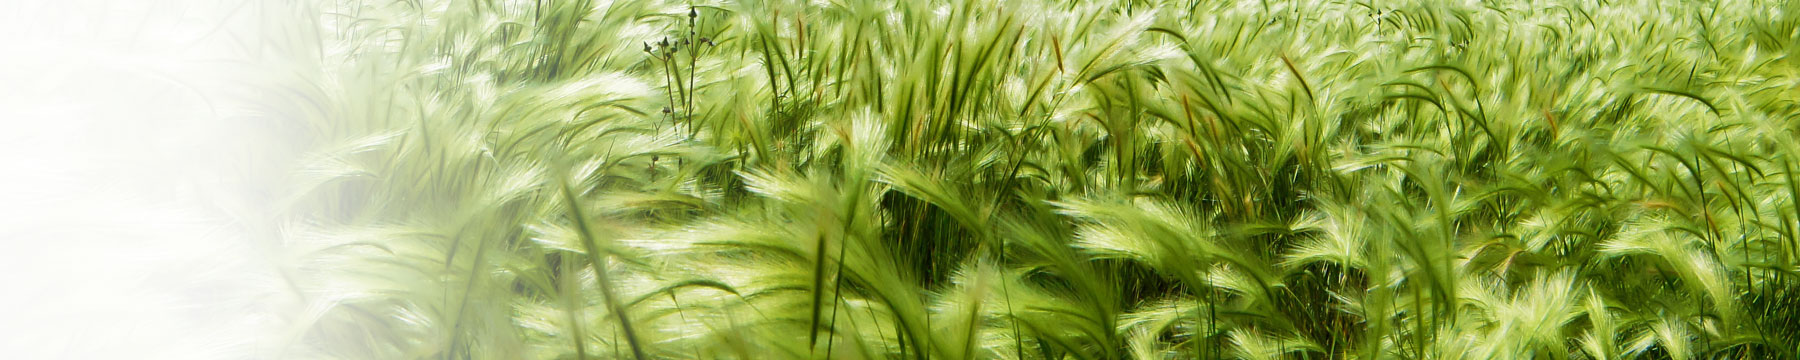
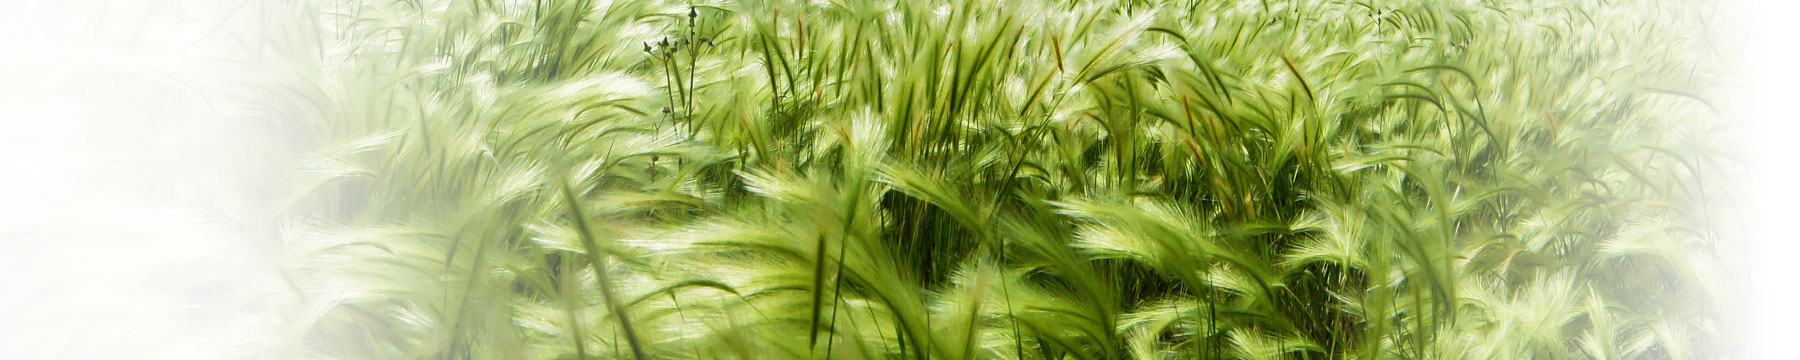
bilder für slider, aufteilung wp dateien, css style fixes

Changed region(s): [[0.7467, 0.0, 1.0, 1.0]]

diff --git a/style.css b/style.css
@@ -30,12 +30,19 @@ h2 a:hover{
 
 body {
 	color: black;
-	font-size: 19px;
+	font-size: 21px;
 	font-family: 'Open Sans', sans-serif;
 	background-color:#F28E00;
 	background-image: url('bg-muster.png');
 	background-size: 15%;
 }
+
+strong {
+	font-size: 21px;
+	font-weight: normal;
+	color: #7da220;
+}
+
 .navbar-default  {
 	background: -moz-linear-gradient(top, rgba(241,241,241,0) 0%, rgba(219,219,219,0.65) 100%); /* FF3.6-15 */
 	background: -webkit-linear-gradient(top, rgba(241,241,241,0) 0%,rgba(219,219,219,0.65) 100%); /* Chrome10-25,Safari5.1-6 */
@@ -64,7 +71,10 @@ nav li {
 
 
 
-
+.site-info{
+	color: white;
+	text-align: center;
+}
 
 
 #bgheader {
@@ -75,10 +85,10 @@ nav li {
 }
 
 .wpcntent {
-	-webkit-box-shadow: 0px 0px 75px -10px rgba(0,0,0,0.75);
-	-moz-box-shadow: 0px 0px 75px -10px rgba(0,0,0,0.75);
-	box-shadow: 0px 0px 75px -10px rgba(0,0,0,0.75);
-
+	-webkit-box-shadow: 1px 2px 43px 0px rgba(255,255,255,1);
+	-moz-box-shadow: 1px 2px 43px 0px rgba(255,255,255,1);
+	box-shadow: 1px 2px 43px 0px rgba(255,255,255,1);
+	
 	border-radius: 24px 24px 24px 24px;
 -moz-border-radius: 24px 24px 24px 24px;
 -webkit-border-radius: 24px 24px 24px 24px;

diff --git a/header.php b/header.php
@@ -1,96 +1,112 @@
-<?php
-/**
- * The template for displaying the header
- *
- * Displays all of the head element and everything up until the "site-content" div.
- *
- * @package WordPress
- * @subpackage Twenty_Fifteen
- * @since Twenty Fifteen 1.0
- */
-?><!DOCTYPE html>
+<?php  ?>
+<!DOCTYPE html>
 <html <?php language_attributes(); ?> class="no-js">
 <head>
-	<meta charset="<?php bloginfo( 'charset' ); ?>">
-	<meta name="viewport" content="width=device-width">
-	<link rel="profile" href="http://gmpg.org/xfn/11">
-	<link rel="pingback" href="<?php bloginfo( 'pingback_url' ); ?>">
-		<?php wp_head(); ?>
-	<link rel="stylesheet" href="<?php echo get_template_directory_uri(); ?>
-/style.css">
-<link href='https://fonts.googleapis.com/css?family=Open+Sans:400,700' rel='stylesheet' type='text/css'>
+
+  <!-- Latest compiled and minified JavaScript -->
+  <meta charset="<?php bloginfo( 'charset' ); ?>">
+  <meta name="viewport" content="width=device-width">
+  <link rel="profile" href="http://gmpg.org/xfn/11">
+  <link rel="pingback" href="<?php bloginfo( 'pingback_url' ); ?>">
+
+
+
+  <link href='https://fonts.googleapis.com/css?family=Open+Sans:400,700' rel='stylesheet' type='text/css'>
+  <?php wp_head(); ?>
+  <link rel="stylesheet" href="<?php echo get_template_directory_uri(); ?>
+  /style.css">
+  <link rel="stylesheet" href="<?php echo get_template_directory_uri(); ?>
+  /wp_generated_classes.css">
+
+
 </head>
+<script src="https://maxcdn.bootstrapcdn.com/bootstrap/3.3.6/js/bootstrap.min.js" integrity="sha384-0mSbJDEHialfmuBBQP6A4Qrprq5OVfW37PRR3j5ELqxss1yVqOtnepnHVP9aJ7xS" crossorigin="anonymous"></script>
+
 
 <body <?php body_class(); ?>>
-<div id="page" class="hfeed site container-fluid">
+  <div id="page" class="hfeed site container-fluid">
 
-	<div class="col-xs-12" style="padding-left:0px; padding-right:0px;padding-top: 85px;">
-		<div class="col-xs-1 col-lg-2">
-		</div>
+    <div class="col-xs-12" style="padding-left:0px; padding-right:0px;padding-top: 35px;">
+      <div class="col-xs-1 col-lg-2">
+      </div>
 
-		<div class="wpcntent col-xs-10 col-lg-8">
+      <div class="wpcntent col-xs-10 col-lg-8">
 
-			<div class="col-xs-12" style="padding-left:0px; padding-right:0px;padding-top:40px;">
-				<div class="col-xs-2">
-					<a href="http://meyer.webfuchs-entwicklung.de/"><img src="<?php echo get_template_directory_uri(); ?>/fitdurchessen.png" style="height: 20vh;"></a>
-				</div>
-				<div class="col-xs-10 hidden-xs hidden-sm " id="bgheader">
-				</div>
-			</div>
-
-      <!-- Header -->
-			<div class="col-xs-12" >
-				<nav role="navigation" class="navbar navbar-default">
-        <!-- Brand and toggle get grouped for better mobile display -->
-
-        <!-- Collection of nav links and other content for toggling -->
-        <div id="navbarCollapse" class="collapse navbar-collapse">
-            <ul class="nav navbar-nav">
-								<?php
-
-									$defaults = array(
-										'theme_location'  => '',
-										'menu'            => '',
-										'container'       => 'null',
-										'container_class' => 'null',
-										'container_id'    => 'null',
-										'menu_class'      => 'null',
-										'menu_id'         => 'null',
-										'echo'            => true,
-										'fallback_cb'     => 'wp_page_menu',
-										'before'          => '',
-										'after'           => '',
-										'link_before'     => '',
-										'link_after'      => '',
-										'items_wrap'      => '',
-										'depth'           => 0,
-										'walker'          => ''
-									);
-
-									wp_nav_menu( $defaults );
-								?>
-
-            </ul>
+        <div class="col-xs-12" style="padding-left:0px; padding-right:18px;padding-top:0px;">
+          <div id="logologo" class="col-xs-12 col-md-2 col-lg-2">
+            <a href="http://meyer.webfuchs-entwicklung.de/"><img  src="<?php echo get_template_directory_uri(); ?>/fitdurchessen.png" style="height: 17vh;"/></a>
+          </div>
+          <div class="col-xs-10 hidden-xs hidden-sm " id="bgheader">
+          </div>
         </div>
-    </nav>
-			</div>
 
-					<div class="col-xs-12" >
-					<?php if (have_posts()) : while (have_posts()) : the_post(); ?>
+        <!-- navbar -->
+        <div class="col-xs-12" >
+        <nav id="site-navigation" class="navbar navbar-default" role="navigation">
+          <div class="container">
+            <div class="navbar-header">
+              <button type="button" class="navbar-toggle" data-toggle="collapse" data-target="#main-navbar-collapse">
+                <span class="sr-only">Toggle navigation</span>
+                <span class="icon-bar"></span>
+                <span class="icon-bar"></span>
+                <span class="icon-bar"></span>
+              </button>
+            </div>
+            <?php wp_nav_menu( array(
+              'theme_location' 	  => 'primary',
+              'container' 		    => 'div',
+              'container_class' 	=> 'collapse navbar-collapse',
+              'container_id'    	=> 'main-navbar-collapse',
+              'menu_class'      	=> 'nav navbar-nav',
+              'menu_id'         	=> '',
+              'echo'            	=> true,
+              'fallback_cb'     	=> 'wp_page_menu',
+              'before'          	=> '',
+              'after'           	=> '',
+              'link_before'     	=> '',
+              'link_after'      	=> '',
+              'items_wrap'      	=> '<ul id="%1$s" class="%2$s">%3$s</ul>',
+              'depth'           	=> 0,
+              'walker'          	=> ''
+            )); ?>
 
-				            <?php the_content(); ?>
-				      <?php endwhile; endif; ?>
-					</div>
+          </div>
+        </nav>
+
+
+      </div>
+
+      <div class="col-xs-12" >
+        <?php if (have_posts()) : while (have_posts()) : the_post(); ?>
+
+          <?php the_content(); ?>
+        <?php endwhile; endif; ?>
+      </div>
 
 
 
-		</div>
+    </div>
 
-		<div class="col-xs-1 col-lg-2">
-		</div>
+    <div class="col-xs-1 col-lg-2">
+    </div>
 
-	</div>
+  </div>
 
 
 
-	</div>
+</div>
+
+
+</div><!-- .site-content -->
+
+<footer id="colophon" class="site-footer" role="contentinfo">
+  <div class="site-info">
+    Alle Rechte für <?php echo date('Y') ?> hat Sabine Meyer
+  </div><!-- .site-info -->
+</footer><!-- .site-footer -->
+
+</div><!-- .site -->
+
+
+</body>
+</html>

diff --git a/index.php b/index.php
@@ -1,112 +1,3 @@
-<?php  ?>
-<!DOCTYPE html>
-<html <?php language_attributes(); ?> class="no-js">
-<head>
-
-  <!-- Latest compiled and minified JavaScript -->
-  <meta charset="<?php bloginfo( 'charset' ); ?>">
-  <meta name="viewport" content="width=device-width">
-  <link rel="profile" href="http://gmpg.org/xfn/11">
-  <link rel="pingback" href="<?php bloginfo( 'pingback_url' ); ?>">
-
-
-
-  <link href='https://fonts.googleapis.com/css?family=Open+Sans:400,700' rel='stylesheet' type='text/css'>
-  <?php wp_head(); ?>
-  <link rel="stylesheet" href="<?php echo get_template_directory_uri(); ?>
-  /style.css">
-  <link rel="stylesheet" href="<?php echo get_template_directory_uri(); ?>
-  /wp_generated_classes.css">
-
-
-</head>
-<script src="https://maxcdn.bootstrapcdn.com/bootstrap/3.3.6/js/bootstrap.min.js" integrity="sha384-0mSbJDEHialfmuBBQP6A4Qrprq5OVfW37PRR3j5ELqxss1yVqOtnepnHVP9aJ7xS" crossorigin="anonymous"></script>
-
-
-<body <?php body_class(); ?>>
-  <div id="page" class="hfeed site container-fluid">
-
-    <div class="col-xs-12" style="padding-left:0px; padding-right:0px;padding-top: 85px;">
-      <div class="col-xs-1 col-lg-2">
-      </div>
-
-      <div class="wpcntent col-xs-10 col-lg-8">
-
-        <div class="col-xs-12" style="padding-left:0px; padding-right:18px;padding-top:40px;">
-          <div id="logologo" class="col-xs-12 col-md-2 col-lg-2">
-            <a href="http://meyer.webfuchs-entwicklung.de/"><img  src="<?php echo get_template_directory_uri(); ?>/fitdurchessen.png" style="height: 17vh;"/></a>
-          </div>
-          <div class="col-xs-10 hidden-xs hidden-sm " id="bgheader">
-          </div>
-        </div>
-
-        <!-- navbar -->
-        <div class="col-xs-12" >
-        <nav id="site-navigation" class="navbar navbar-default" role="navigation">
-          <div class="container">
-            <div class="navbar-header">
-              <button type="button" class="navbar-toggle" data-toggle="collapse" data-target="#main-navbar-collapse">
-                <span class="sr-only">Toggle navigation</span>
-                <span class="icon-bar"></span>
-                <span class="icon-bar"></span>
-                <span class="icon-bar"></span>
-              </button>
-            </div>
-            <?php wp_nav_menu( array(
-              'theme_location' 	  => 'primary',
-              'container' 		    => 'div',
-              'container_class' 	=> 'collapse navbar-collapse',
-              'container_id'    	=> 'main-navbar-collapse',
-              'menu_class'      	=> 'nav navbar-nav',
-              'menu_id'         	=> '',
-              'echo'            	=> true,
-              'fallback_cb'     	=> 'wp_page_menu',
-              'before'          	=> '',
-              'after'           	=> '',
-              'link_before'     	=> '',
-              'link_after'      	=> '',
-              'items_wrap'      	=> '<ul id="%1$s" class="%2$s">%3$s</ul>',
-              'depth'           	=> 0,
-              'walker'          	=> ''
-            )); ?>
-
-          </div>
-        </nav>
-
-
-      </div>
-
-      <div class="col-xs-12" >
-        <?php if (have_posts()) : while (have_posts()) : the_post(); ?>
-
-          <?php the_content(); ?>
-        <?php endwhile; endif; ?>
-      </div>
-
-
-
-    </div>
-
-    <div class="col-xs-1 col-lg-2">
-    </div>
-
-  </div>
-
-
-
-</div>
-
-
-</div><!-- .site-content -->
-
-<footer id="colophon" class="site-footer" role="contentinfo">
-  <div class="site-info">
-
-  </div><!-- .site-info -->
-</footer><!-- .site-footer -->
-
-</div><!-- .site -->
-
-
-</body>
-</html>
+<?php
+get_header();
+?>

diff --git a/page.php b/page.php
@@ -1,7 +1,3 @@
 <?php
-
-get_header(); 
-
- get_footer(); 
-
- ?>
+get_header();
+?>

diff --git a/single.php b/single.php
@@ -1,7 +1,3 @@
 <?php
-
-get_header(); 
-
- get_footer(); 
-
- ?>
+get_header();
+?>
